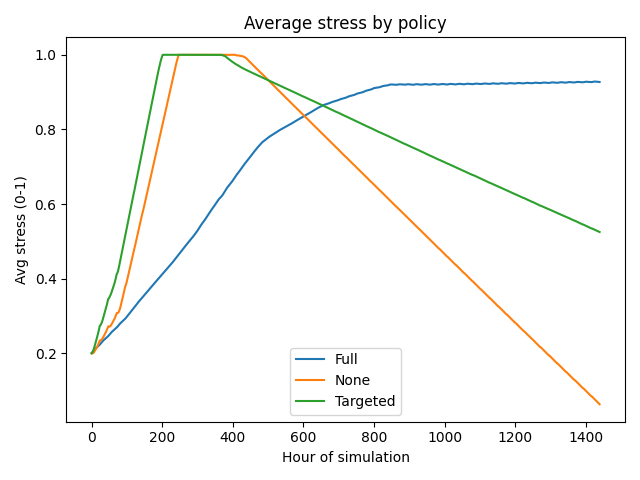
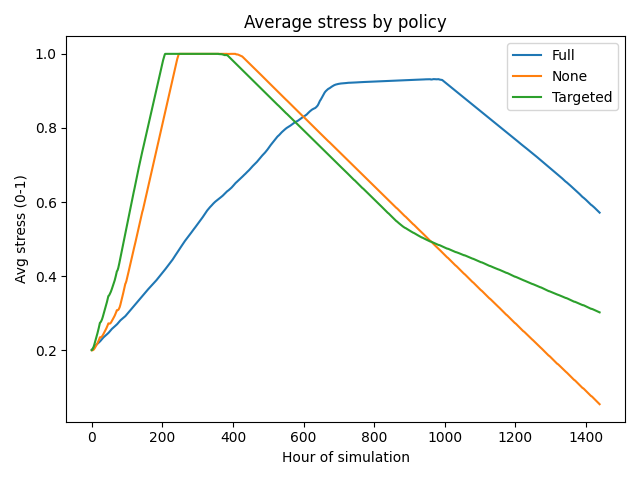
Hooked stress-driven noncompliance into the simulation

diff --git a/town_model.py b/town_model.py
@@ -158,6 +158,11 @@ class TownAgent(Agent):
         self.compliant = True
         self.has_dependents = has_dependents
         self.employed = True     # owners may effectively become "unemployed" if business stays closed
+        params = model.role_compliance_params.get(role, model.default_compliance_params)
+        self.break_threshold = params["break_threshold"]
+        self.return_threshold = params["return_threshold"]
+        self.break_prob = params["break_prob"]
+        self.return_prob = params["return_prob"]
 
         # For daily stats
         self.today_contacts = set()
@@ -170,7 +175,8 @@ class TownAgent(Agent):
         # Work / school hours
         if self.role in ["office", "service", "owner"]:
             if 9 <= current_hour < 17:  # work block
-                if policy.allows_work(self) and self.work is not None:
+                can_work = (policy.allows_work(self) or not self.compliant) and self.work is not None
+                if can_work:
                     self.location = self.work
                 else:
                     self.location = self.home
@@ -179,7 +185,8 @@ class TownAgent(Agent):
 
         elif self.role == "student":
             if 8 <= current_hour < 15:  # school block
-                if policy.allows_school(self) and self.work is not None:
+                can_school = (policy.allows_school(self) or not self.compliant) and self.work is not None
+                if can_school:
                     self.location = self.work  # here work = school
                 else:
                     self.location = self.home
@@ -206,10 +213,13 @@ class TownAgent(Agent):
 
         if self.random.random() < p_go_out:
             # Try to pick a leisure location allowed by policy
-            allowed = [
-                loc for loc in self.model.leisure_locations
-                if policy.allows_leisure_location(loc)
-            ]
+            if self.compliant:
+                allowed = [
+                    loc for loc in self.model.leisure_locations
+                    if policy.allows_leisure_location(loc)
+                ]
+            else:
+                allowed = list(self.model.leisure_locations)
             if allowed:
                 self.location = self.random.choice(allowed)
             else:
@@ -249,7 +259,7 @@ class TownAgent(Agent):
 
         # Economic stress: small business owners whose business is closed
         if self.role == "owner" and m.enable_owner_econ_stress:
-            if not m.policy.allows_business_open(self):
+            if self.compliant and not m.policy.allows_business_open(self):
                 self.stress = min(1.0, self.stress + m.economic_stress)
 
         # Dependents: if they have dependents and high infection around, extra stress
@@ -262,9 +272,11 @@ class TownAgent(Agent):
             alpha = m.stress_influence
             self.stress = (1 - alpha) * self.stress + alpha * avg_neighbor_stress
 
-        # Compliance change: very high stress → more likely to stop complying
-        if self.stress > 0.8 and self.random.random() < 0.1:
+        # Compliance change: stress-based rule-breaking with role-specific thresholds
+        if self.stress > self.break_threshold and self.random.random() < self.break_prob:
             self.compliant = False
+        elif not self.compliant and self.stress < self.return_threshold and self.random.random() < self.return_prob:
+            self.compliant = True
 
 
 # ---------- MODEL ----------
@@ -307,6 +319,38 @@ class TownModel(Model):
         self.target_contacts = 5
         self.enable_owner_econ_stress = enable_owner_econ_stress
         self.enable_social_influence = enable_social_influence
+        self.default_compliance_params = {
+            "break_threshold": 0.8,
+            "return_threshold": 0.5,
+            "break_prob": 0.1,
+            "return_prob": 0.05,
+        }
+        self.role_compliance_params = {
+            "student": {
+                "break_threshold": 0.85,
+                "return_threshold": 0.45,
+                "break_prob": 0.05,
+                "return_prob": 0.1,
+            },
+            "office": {
+                "break_threshold": 0.8,
+                "return_threshold": 0.5,
+                "break_prob": 0.1,
+                "return_prob": 0.05,
+            },
+            "service": {
+                "break_threshold": 0.78,
+                "return_threshold": 0.5,
+                "break_prob": 0.12,
+                "return_prob": 0.04,
+            },
+            "owner": {
+                "break_threshold": 0.7,
+                "return_threshold": 0.55,
+                "break_prob": 0.15,
+                "return_prob": 0.03,
+            },
+        }
 
         # Policy
         self.location_types = {}   # name -> type, filled below
@@ -474,6 +518,7 @@ class TownModel(Model):
                 "Infected": lambda m: sum(1 for a in m.schedule.agents if a.health_state == "I"),
                 "AvgStress": lambda m: np.mean([a.stress for a in m.schedule.agents]),
                 "HighStressFrac": lambda m: np.mean([a.stress > 0.8 for a in m.schedule.agents]),
+                "NonCompliantFrac": lambda m: np.mean([not a.compliant for a in m.schedule.agents]),
                 # By-role examples (optional, useful for plots)
                 "AvgStress_Student": lambda m: np.mean(
                     [a.stress for a in m.schedule.agents if a.role == "student"]

diff --git a/run_sim.py b/run_sim.py
@@ -47,6 +47,7 @@ def summarize_policy(df: pd.DataFrame) -> dict:
         "stress_area_under_curve": float(df_sorted["AvgStress"].sum()),
         "max_owner_stress": float(df_sorted["AvgStress_Owner"].max()),
         "time_until_stress_near_baseline_hours": recovery_hours,
+        "max_noncompliant_frac": float(df_sorted["NonCompliantFrac"].max()),
     }
     return metrics
 
@@ -107,6 +108,21 @@ def plot_average_stress(all_results: pd.DataFrame):
     ax.set_title("Average stress by policy")
     ax.legend()
     save_or_show(fig, "average_stress.png")
+
+
+def plot_high_stress_fraction(all_results: pd.DataFrame):
+    import matplotlib.pyplot as plt
+
+    fig, ax = plt.subplots()
+    for policy, grp in all_results.groupby("policy"):
+        ax.plot(grp["hour"], grp["HighStressFrac"], label=policy.title())
+
+    ax.set_xlabel("Hour of simulation")
+    ax.set_ylabel("Fraction with stress > 0.8")
+    ax.set_ylim(0, 1)
+    ax.set_title("High-stress population share")
+    ax.legend()
+    save_or_show(fig, "high_stress_fraction.png")
 
 
 def plot_stress_by_role(all_results: pd.DataFrame):
@@ -197,6 +213,7 @@ def main():
 
     plot_infections(all_results)
     plot_average_stress(all_results)
+    plot_high_stress_fraction(all_results)
     plot_stress_by_role(all_results)
     plot_infection_stress_per_policy(all_results)
     plot_policy_comparison_small_multiples(all_results)
